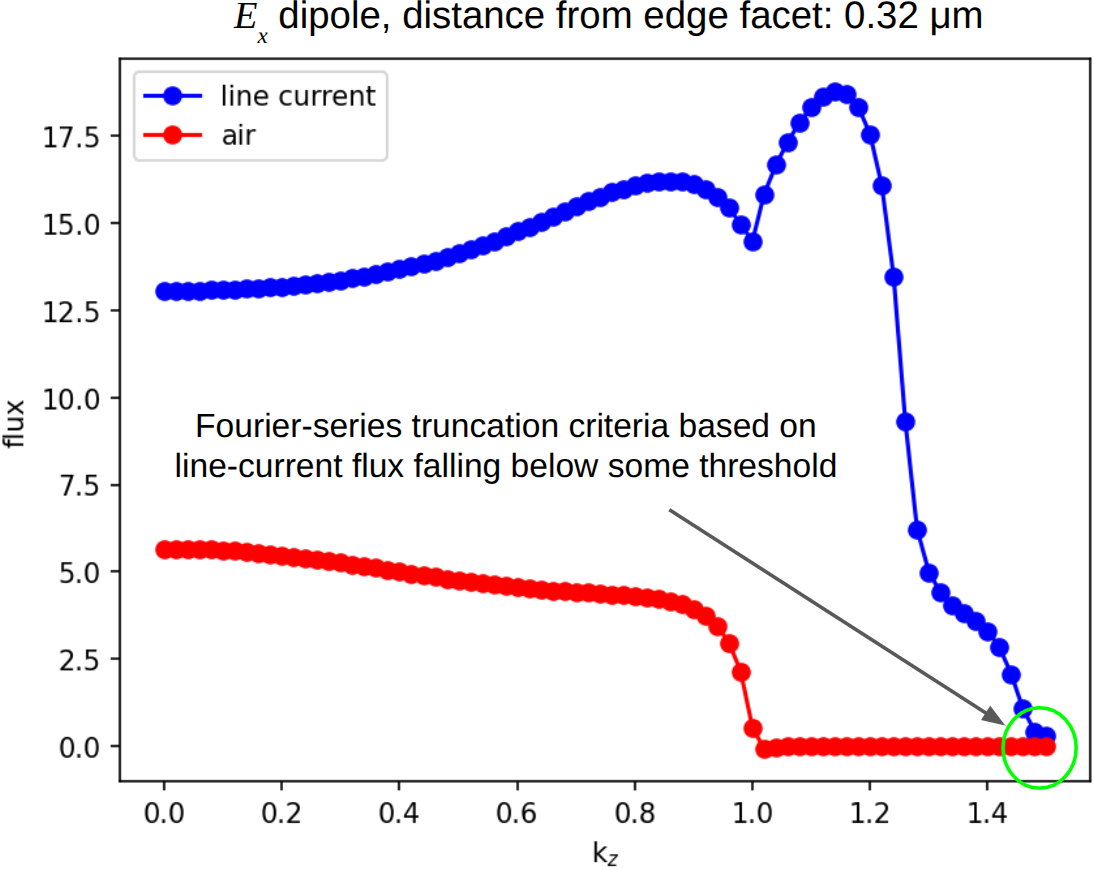
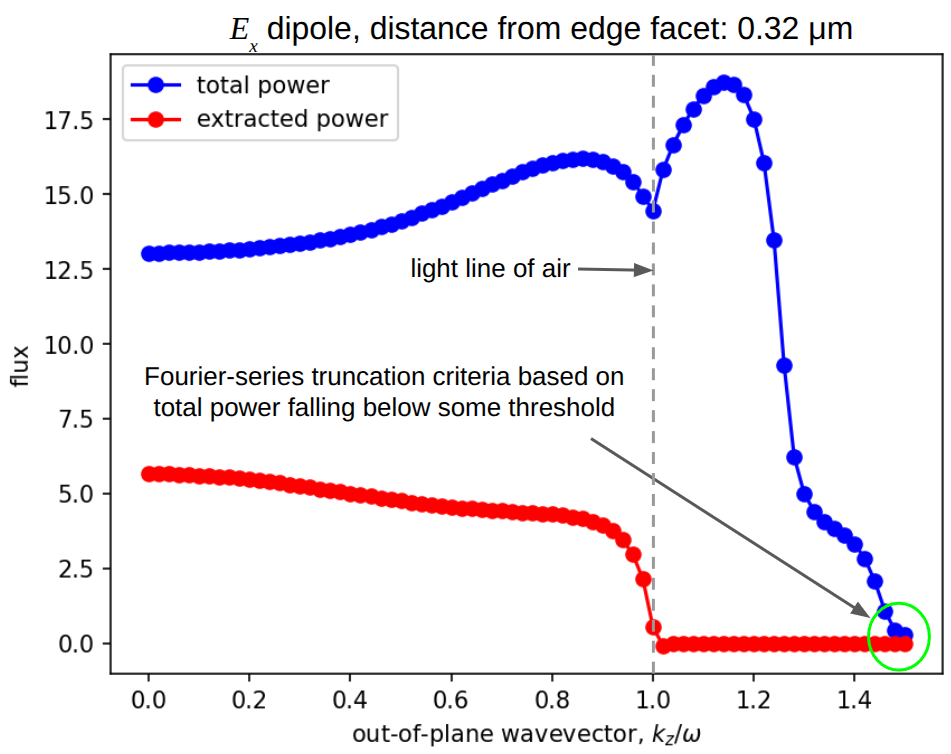
update axis label of plot of flux vs. kz and provide additional details regarding use of the kz_2d feature

diff --git a/doc/docs/Python_Tutorials/Custom_Source.md b/doc/docs/Python_Tutorials/Custom_Source.md
@@ -662,11 +662,11 @@ The emission from a cleaved facet of a multilayer stack (relevant for [edge-emit
 
 There are three important things to note regarding the setup of this calculation:
 
-- A 2D simulation (in $xy$) with out-of-plane wavevector ($k_z$) requires specifying the parameters [`kz_2d`](../2d_Cell_Special_kz.md) and `force_complex_fields` of the `Simulation` constructor to `"real/imag"` and `False`, respectively.
+- A 2D simulation (in $xy$) with out-of-plane wavevector ($k_z$) requires specifying the parameter [`kz_2d`](../2d_Cell_Special_kz.md) of the `Simulation` constructor to `"real/imag"` and using the default value for `force_complex_fields` of `False`. Alternatively, `kz_2d` can be set to "complex" (default value) or "3d" but this requires specifying `force_complex_fields` to `True` (which doubles the storage required for the fields).
 - The Fourier-series expansion requires only *non-negative* wavevectors $k_z$ since the flux is the same for $\pm k_z$.
-- The criteria for truncating the Fourier series is determined by when the flux radiated by the line current (computed using the local density of states) has fallen below a given threshold (which needs to be small enough to ensure the results are converged).
+- The criteria for truncating the Fourier series is determined by when the *total* power (computed using the local density of states) has fallen below a given threshold (which needs to be small enough to ensure the results are converged).
 
-A plot of the flux radiated by the line current and into air versus $k_z$ is shown below for an $E_x$ dipole positioned 0.32 μm from the edge facet. When $k_z$ is sufficiently large, the flux radiated by the line current is negligible. The extraction efficiency computed from this data is 24.12%. This example involved 76 2D simulations.
+A plot of the total and extracted power versus $k_z$ (in units of $\omega$) is shown below for an $E_x$ dipole positioned 0.32 μm from the edge facet. When $k_z > \omega$ (below the light line of air), the extracted power is essentially zero and coupling into guided substrate modes dominates. This is why the total power reaches a local minimum at $k_z = \omega$ and starts increasing, reaches a maximum, and eventually becomes negligible when $k_z$ is sufficiently large. The extraction efficiency computed from this data is 24.12%. This example involved 76 2D simulations.
 
 ![](../images/edge_emitter_flux_vs_kz.png#center)
 
